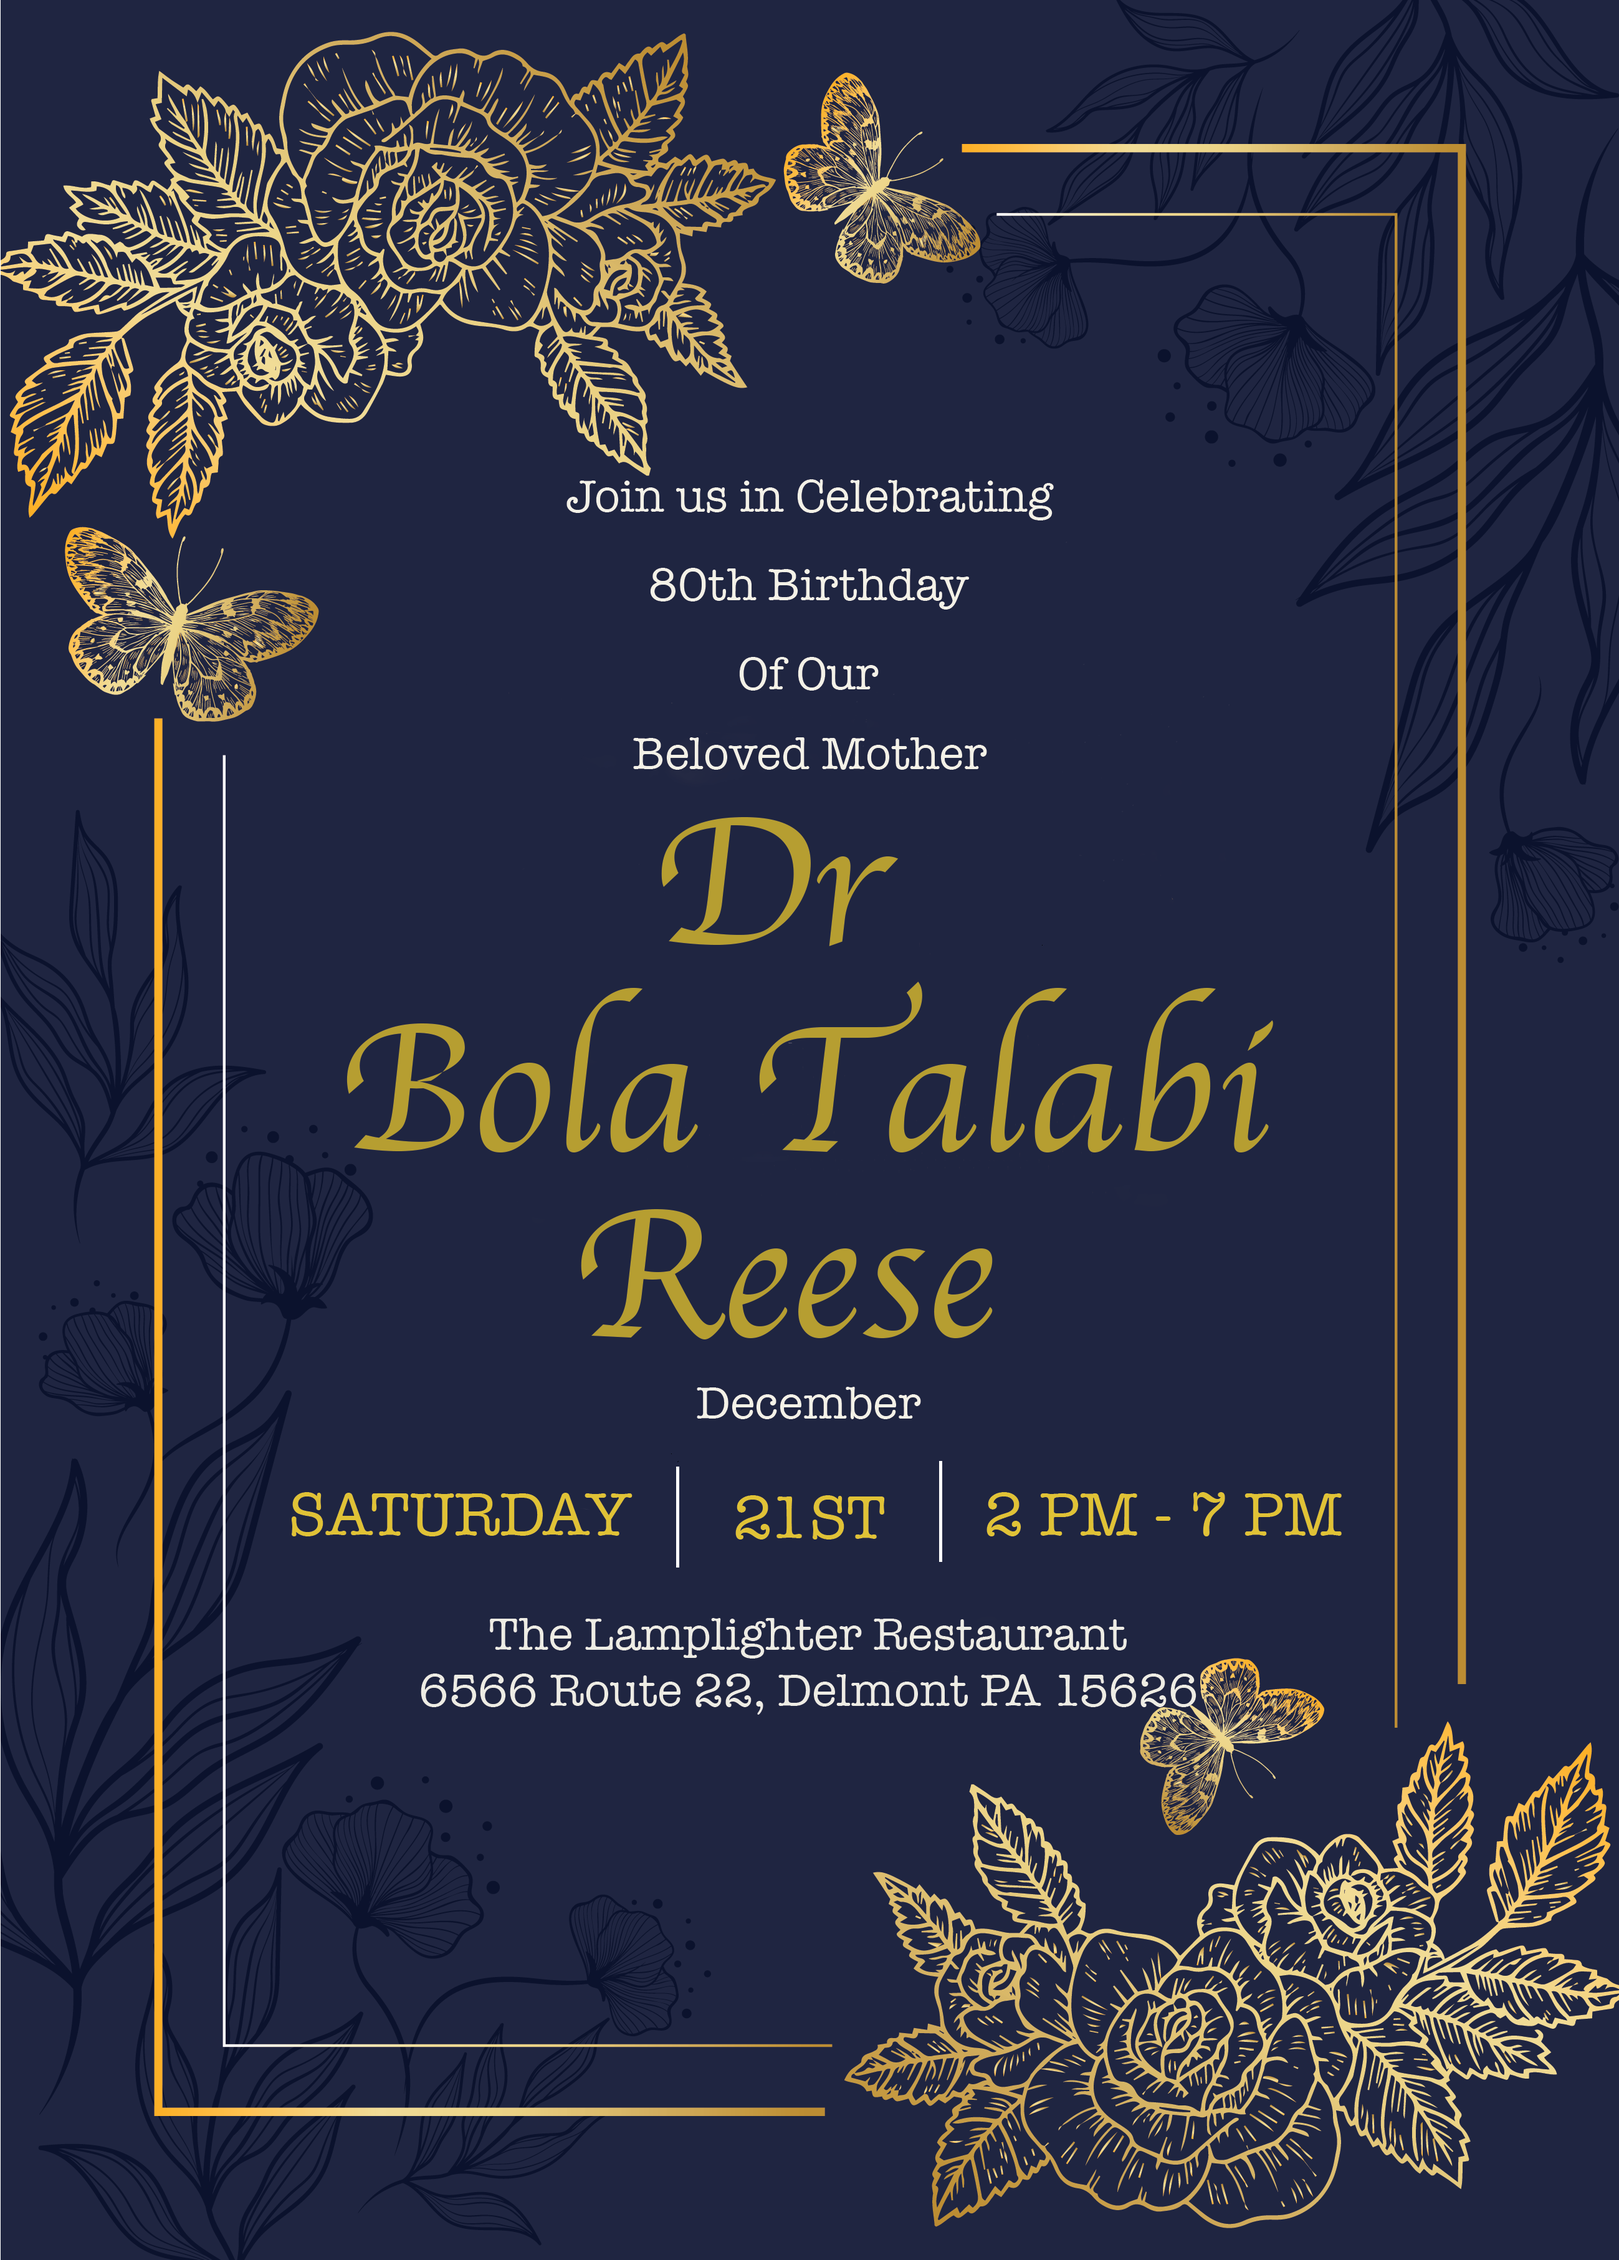
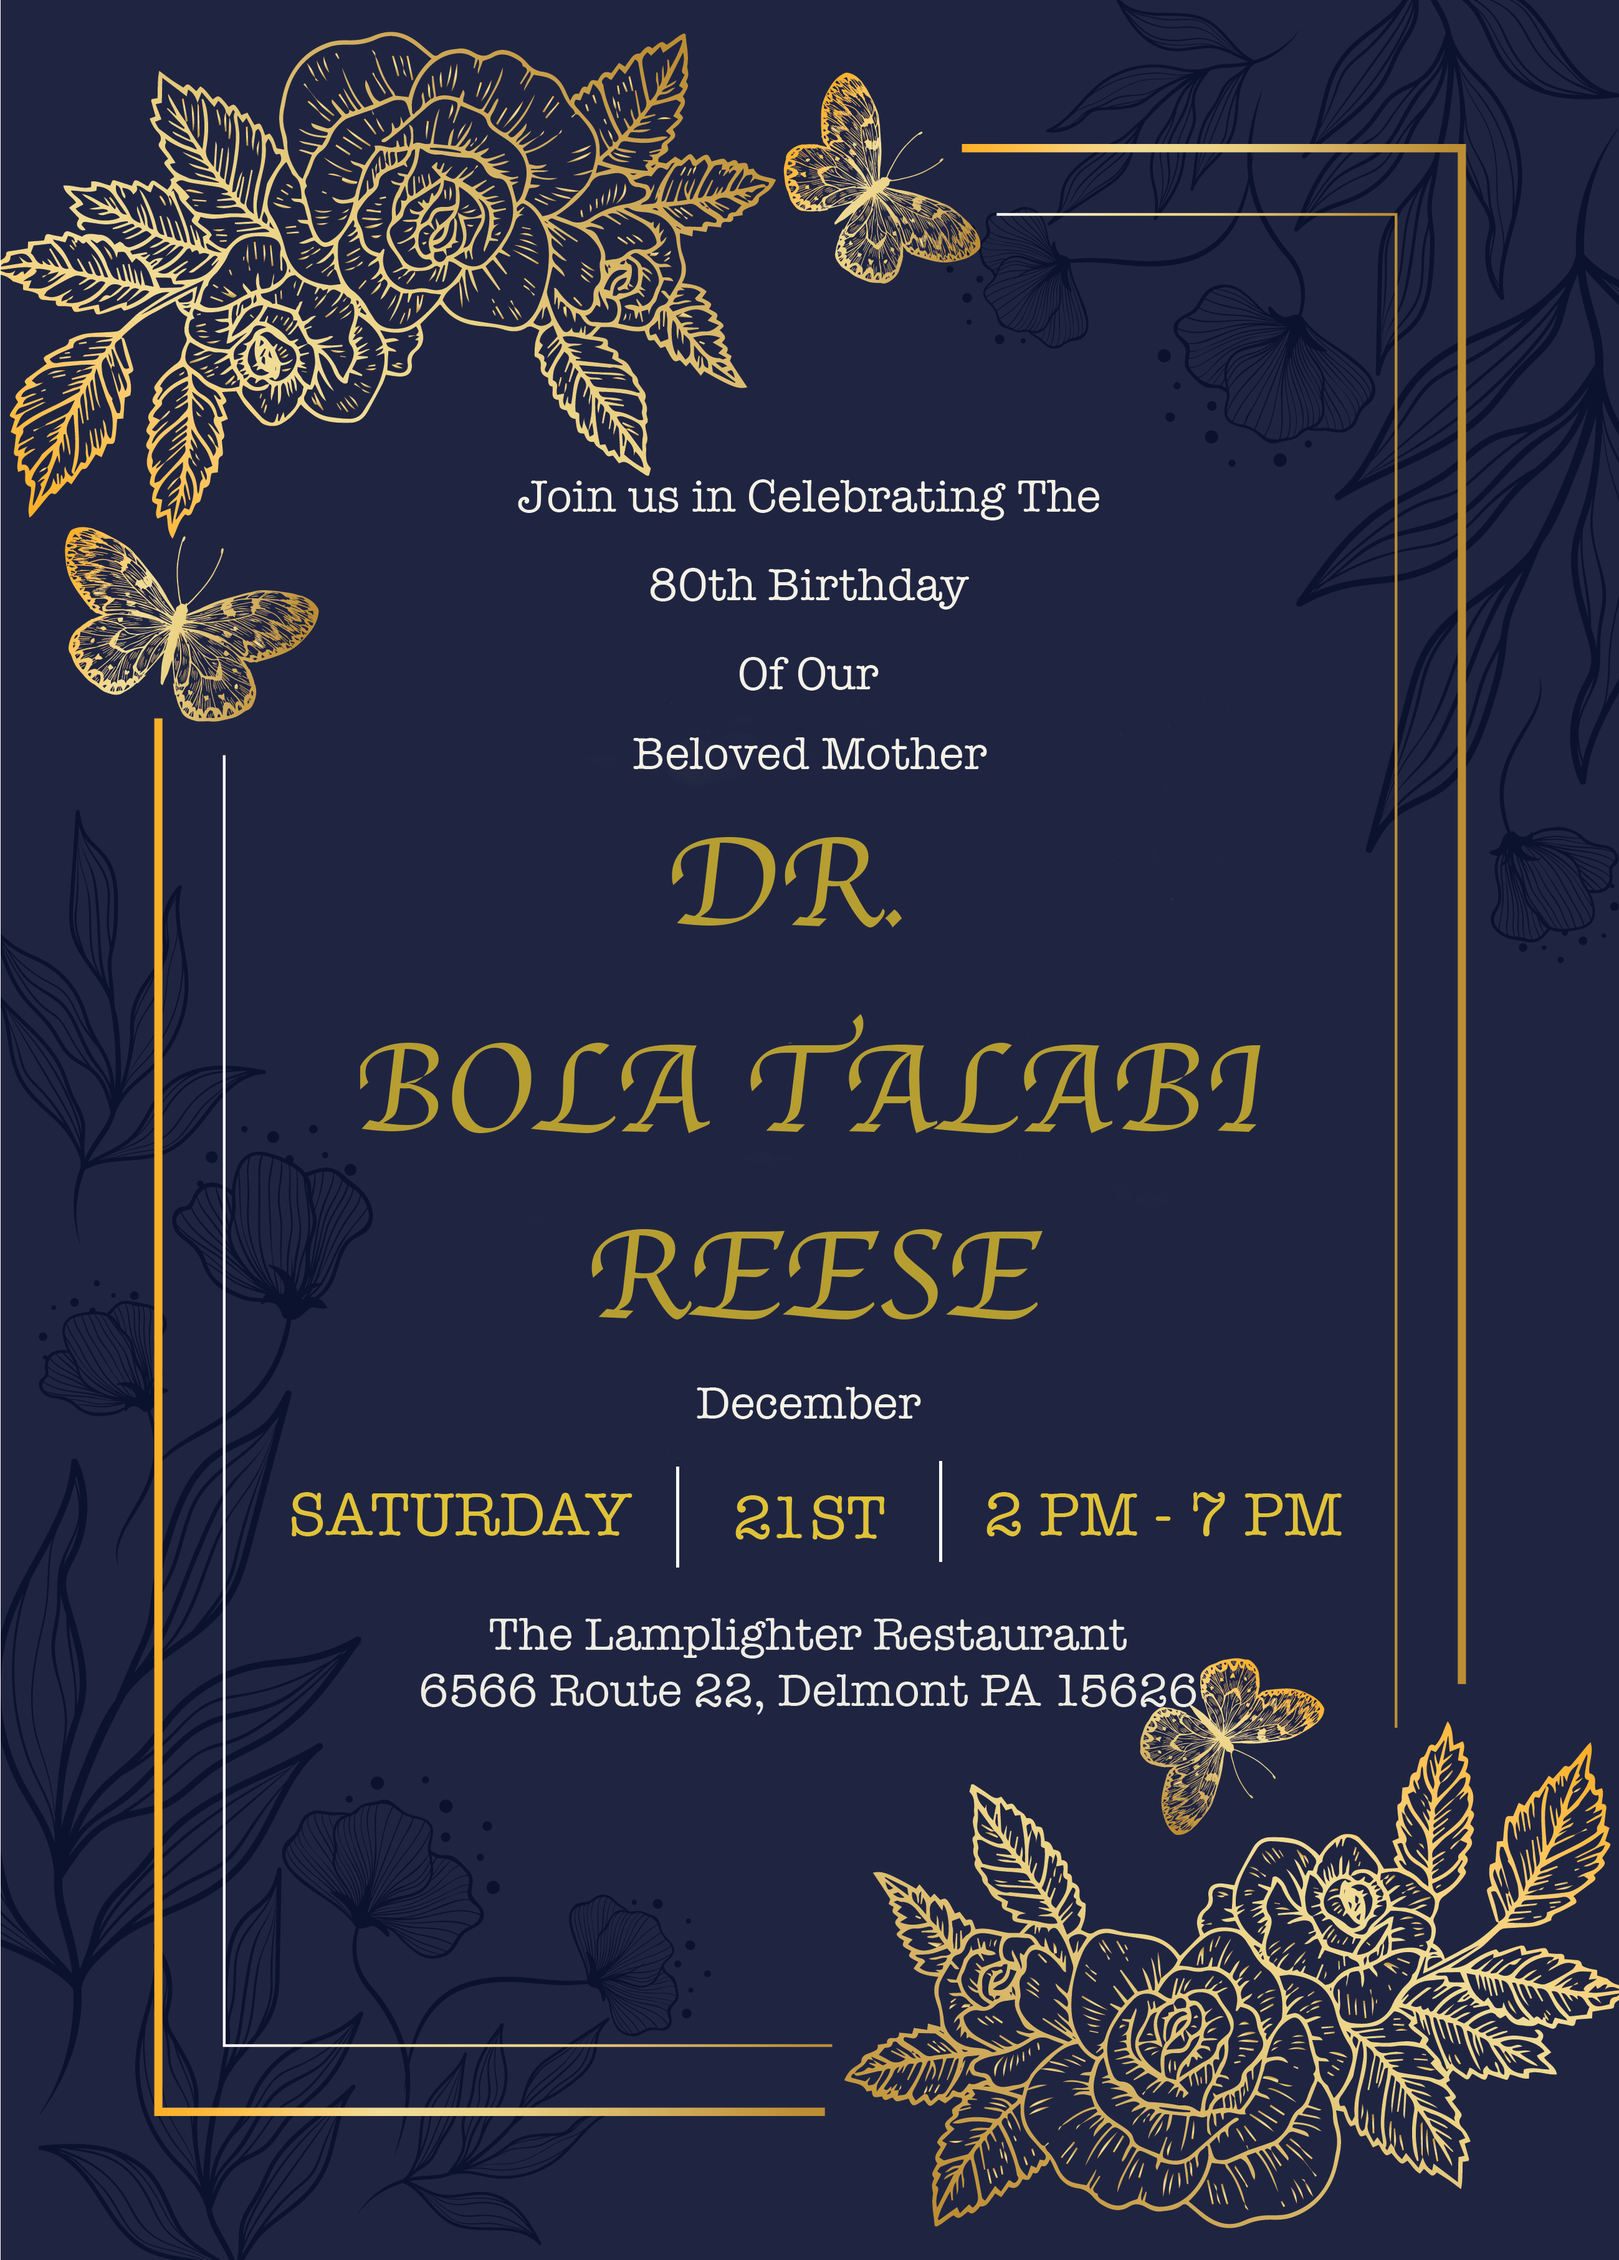
Dr. fixed

Changed region(s): [[0.2182, 0.3428, 0.7794, 0.5921], [0.343, 0.2181, 0.6547, 0.2493]]

diff --git a/services/NotificationService.js b/services/NotificationService.js
@@ -17,13 +17,13 @@ class Service {
 			let info = {
 				sender: "noreply@mapraizllc.com",
 				templateFile: "invitation.ejs",
-				subject: "Dr Bola Talabi Reese 80th Birthday Invitation",
+				subject: "Dr. Bola Talabi Reese 80th Birthday Invitation",
 				recipients: item,
 				data: message.data,
 				attachments: [
 					{
 						filename:
-							"Dr Bola Talabi Reese 80th Birthday Invitation.png",
+							"Dr. Bola Talabi Reese 80th Birthday Invitation.png",
 						path: process.cwd() + "/tempFiles/card.png",
 						contentType: "image/png",
 					},
@@ -42,13 +42,13 @@ class Service {
 				sender: "noreply@mapraizllc.com",
 				templateFile: "attending.ejs",
 				subject:
-					"RSVP Confirmation - Dr Bola Talabi Reese 80th Birthday",
+					"RSVP Confirmation - Dr. Bola Talabi Reese 80th Birthday",
 				recipients: item,
 				data: message.data,
 				attachments: [
 					{
 						filename:
-							"Dr Bola Talabi Reese 80th Birthday Invitation",
+							"Dr. Bola Talabi Reese 80th Birthday Invitation",
 						path: process.cwd() + "/tempFiles/card.png",
 					},
 				],
@@ -65,7 +65,7 @@ class Service {
 			let info = {
 				sender: "noreply@mapraizllc.com",
 				templateFile: "admin-attending.ejs",
-				subject: "RSVP Update - Dr Bola Talabi Reese 80th Birthday",
+				subject: "RSVP Update - Dr. Bola Talabi Reese 80th Birthday",
 				recipients: item,
 				data: message.data,
 			};
@@ -81,7 +81,7 @@ class Service {
 			let info = {
 				sender: "noreply@mapraizllc.com",
 				templateFile: "notattending.ejs",
-				subject: "RSVP - Dr Bola Talabi Reese 80th Birthday",
+				subject: "RSVP - Dr. Bola Talabi Reese 80th Birthday",
 				recipients: item,
 				data: message.data,
 			};
@@ -97,7 +97,7 @@ class Service {
 			let info = {
 				sender: "noreply@mapraizllc.com",
 				templateFile: "admin-notattending.ejs",
-				subject: "RSVP Update - Dr Bola Talabi Reese 80th Birthday",
+				subject: "RSVP Update - Dr. Bola Talabi Reese 80th Birthday",
 				recipients: item,
 				data: message.data,
 			};
